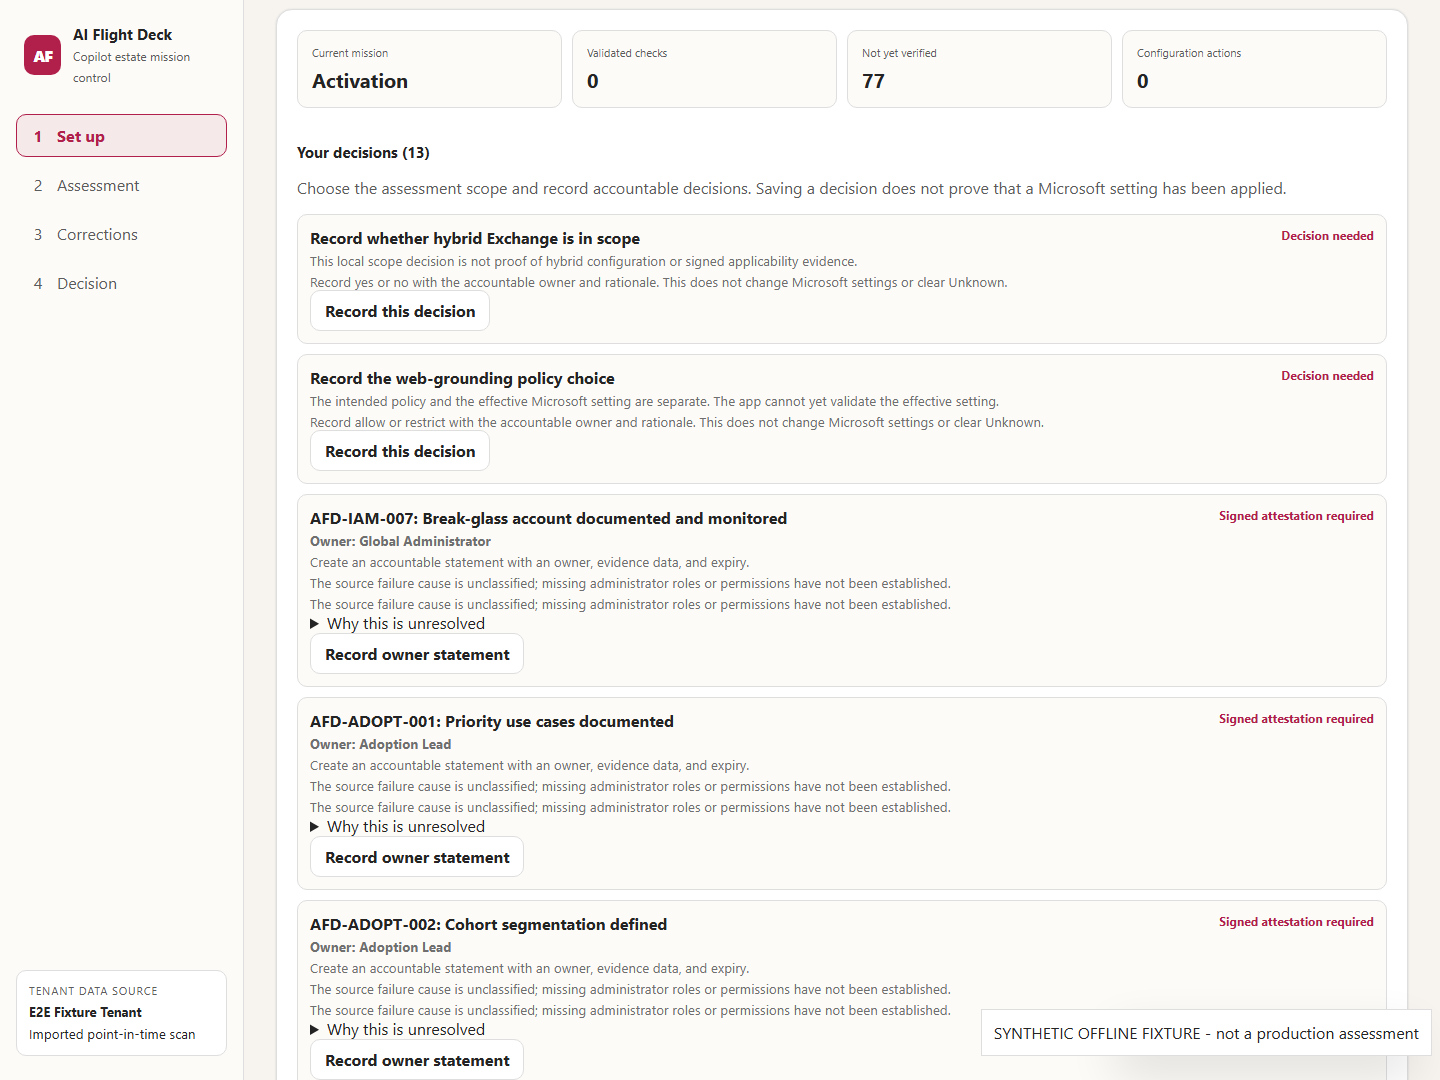
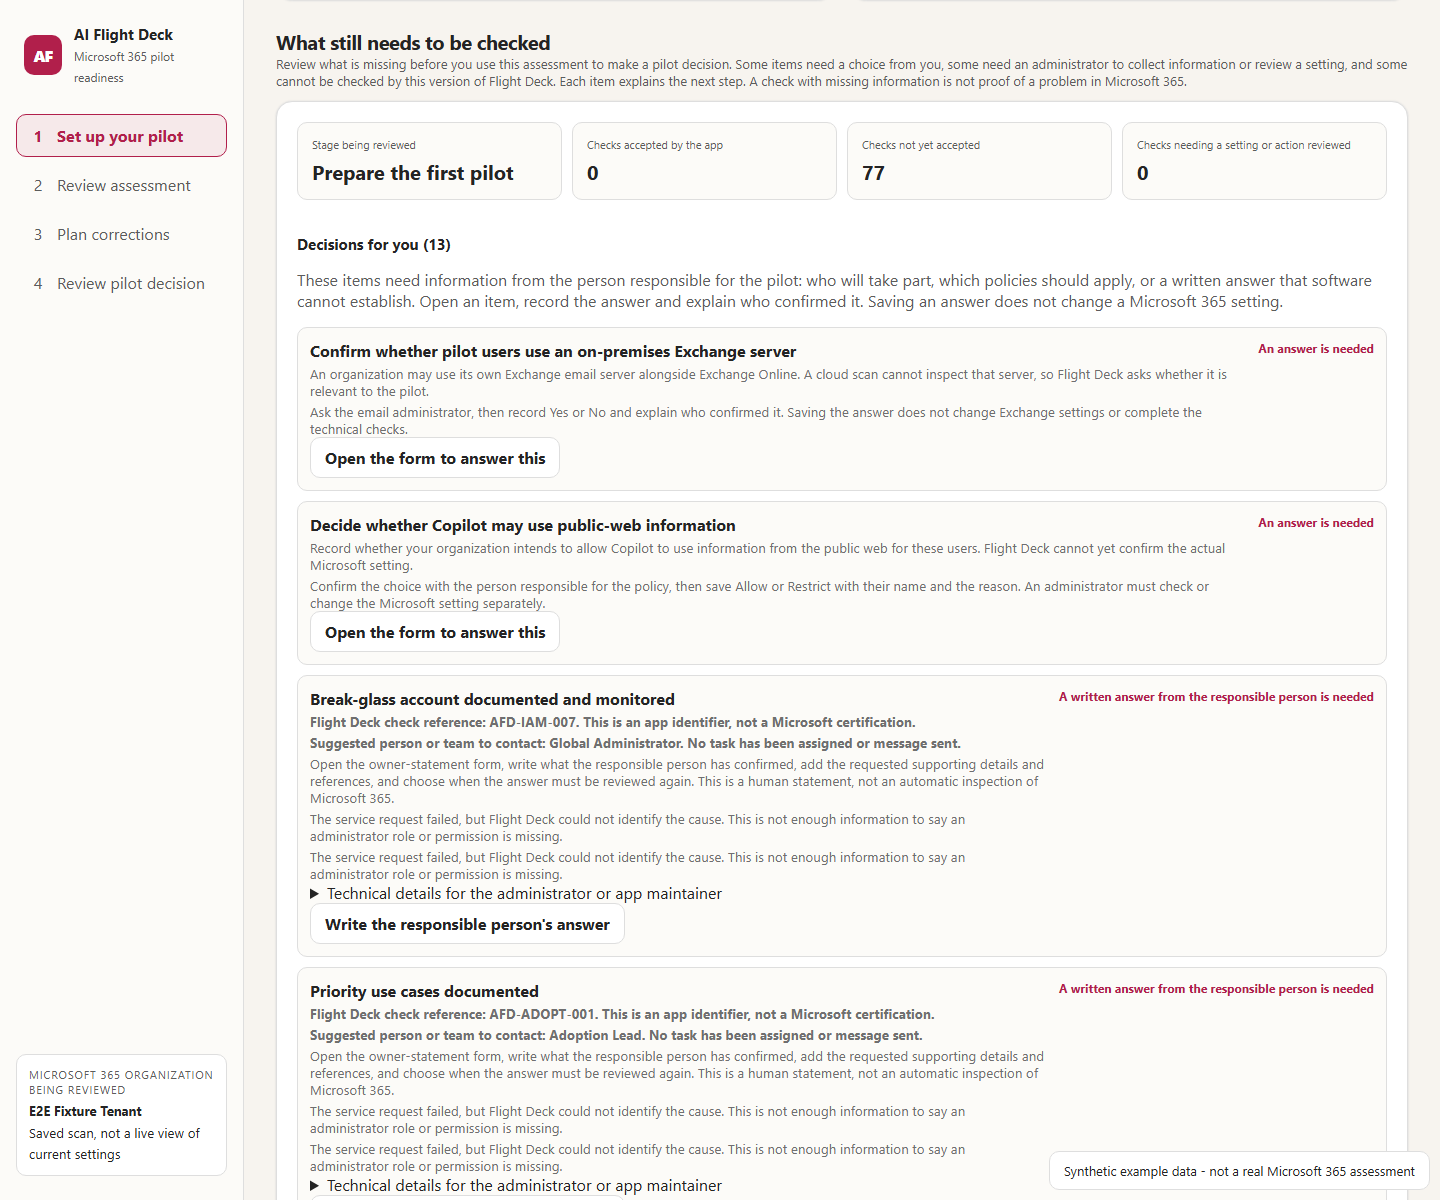
Refresh all visual-tour screenshots for the plain-language interface
Updates README and visual-tour documentation to align with the refreshed 14 synthetic interface screenshots captured on 9 September 2026.

diff --git a/docs/VISUAL-TOUR.md b/docs/VISUAL-TOUR.md
@@ -11,9 +11,11 @@ confirm the result. The other 63 checks do not yet have the software rules neede
 to confirm their results. They can still show useful information and instructions.
 Their presence on a page does not mean they have been completed.
 
-The screenshots use synthetic examples, not a real tenant. Screenshots from
-earlier versions may have shorter labels than the current interface; the
-instructions below describe the current behavior.
+All 14 screenshots were refreshed on **9 September 2026** to show the
+plain-language interface and the revised Setup order. Every image is labelled
+as a synthetic example, not a real Microsoft 365 assessment. The examples
+include incomplete collections and checks the app cannot yet confirm; they
+are not demonstrations of a fully approved rollout.
 
 [Return to the README](../README.md)
 
@@ -54,7 +56,7 @@ Read the scan limits before starting. A scan reads only the information the
 signed-in account can access and stops at documented collection limits.
 One failed service does not mean every service failed. Check each service's result.
 
-[![Choose the assessment evidence path](screenshots/01-setup-overview.png)](screenshots/01-setup-overview.png)
+[![Connect Microsoft 365 and start the first scan](screenshots/01-setup-overview.png)](screenshots/01-setup-overview.png)
 
 ### Choose the people and settings for your pilot
 
@@ -78,7 +80,7 @@ Saving these forms changes only the local Flight Deck records. It does not
 assign licences, grant access, change the public-web setting, inspect an
 on-premises server or send an approval request to the named owner.
 
-[![Record scoped pilot and policy decisions](screenshots/14-setup-decisions.png)](screenshots/14-setup-decisions.png)
+[![Choose pilot participants and record whether Copilot may use public-web information](screenshots/14-setup-decisions.png)](screenshots/14-setup-decisions.png)
 
 ### Work through what still needs to be checked
 
@@ -97,7 +99,7 @@ to continue. Each item identifies the check, explains the next step and links to
 the relevant form or instructions. A suggested contact is not an assigned task.
 Technical errors are available separately for administrators and app maintainers.
 
-[![Prioritize missing evidence](screenshots/02-setup-evidence-center.png)](screenshots/02-setup-evidence-center.png)
+[![Read what still needs to be checked and the next step for each item](screenshots/02-setup-evidence-center.png)](screenshots/02-setup-evidence-center.png)
 
 ### Collect workload evidence
 
@@ -132,7 +134,7 @@ Saved imports are checked for their organization, format, collection date and
 whether they belong to the current collection. Rejected files cannot change a
 readiness result simply by containing a "Pass" label.
 
-[![Collect administrator and Power Platform evidence](screenshots/03-setup-workload-evidence.png)](screenshots/03-setup-workload-evidence.png)
+[![Read separate collection results and errors for each Microsoft service](screenshots/03-setup-workload-evidence.png)](screenshots/03-setup-workload-evidence.png)
 
 ### Record a written answer from the responsible person
 
@@ -150,7 +152,7 @@ or the signer's approval authority. Save it and run another scan to evaluate it.
 Only supported conditional checks can accept a justified "not applicable" answer;
 this is not a way to skip any inconvenient check.
 
-[![Create accountable attestations](screenshots/04-setup-attestation.png)](screenshots/04-setup-attestation.png)
+[![Write the responsible person's answer and add supporting information](screenshots/04-setup-attestation.png)](screenshots/04-setup-attestation.png)
 
 ### Understand what happens after collection
 
@@ -163,7 +165,7 @@ A predicted improvement is not a measured result. The tool can confirm a check
 only when it has current information and the implemented rules for that check.
 The complete real-tenant pilot-to-rollout process has not yet been demonstrated.
 
-[![Follow the operating workflow](screenshots/05-setup-operating-workflow.png)](screenshots/05-setup-operating-workflow.png)
+[![Follow the steps from the first scan to an administrator review and later comparison](screenshots/05-setup-operating-workflow.png)](screenshots/05-setup-operating-workflow.png)
 
 ## 2. Read the assessment
 
@@ -179,7 +181,7 @@ or resources covered and the explanation of missing information. Follow its
 next-step instructions, rather than interpreting a grey or unknown result as a
 misconfigured setting. New written answers are evaluated during the next scan.
 
-[![Review the readiness control plane](screenshots/06-assessment-control-plane.png)](screenshots/06-assessment-control-plane.png)
+[![Select a Microsoft 365 service area and read its readiness checks](screenshots/06-assessment-control-plane.png)](screenshots/06-assessment-control-plane.png)
 
 ### Review SharePoint access and sharing evidence
 
@@ -211,7 +213,10 @@ If there is no usable sharing information, the app can instead explain how a
 missing readiness check prevents a rollout-stage decision. This explanation is
 not a test of someone's actual file access.
 
-[![Review the fixture's available evidence scenarios](screenshots/07-assessment-sharing-review.png)](screenshots/07-assessment-sharing-review.png)
+The example below contains no broad sharing result. It shows how the app
+reports that absence without declaring that the whole organization is safe.
+
+[![Review the message when the sample has no broad sharing result](screenshots/07-assessment-sharing-review.png)](screenshots/07-assessment-sharing-review.png)
 
 ### Open a finding to understand the recommended review
 
@@ -228,7 +233,7 @@ the entire organization safe. If sharing details are unavailable, an explanation
 of missing readiness information may appear instead; do not read that as an
 actual file-permission test.
 
-[![Inspect the fixture's evidence-to-decision trace](screenshots/08-assessment-sharing-result.png)](screenshots/08-assessment-sharing-result.png)
+[![Read the explanation and limitations of an empty sharing result](screenshots/08-assessment-sharing-result.png)](screenshots/08-assessment-sharing-result.png)
 
 ### Review grouped access evidence
 
@@ -249,7 +254,7 @@ every row. These are sampled observations, not a complete tenant inventory.
 The full bounded artifact still loads locally; UI pagination is not a
 million-file backend.
 
-[![Review evidence-backed findings](screenshots/09-assessment-findings.png)](screenshots/09-assessment-findings.png)
+[![Review grouped permissions without mistaking permission records for file counts](screenshots/09-assessment-findings.png)](screenshots/09-assessment-findings.png)
 
 ## 3. Prepare corrections
 
@@ -265,7 +270,7 @@ the tool can collect. Missing information belongs in **What still needs to be
 checked** on Set up; this page concerns proposed changes, not software features
 missing from Flight Deck.
 
-[![Prepare technical corrections](screenshots/10-corrections.png)](screenshots/10-corrections.png)
+[![Select proposed actions for administrator review without changing Microsoft 365](screenshots/10-corrections.png)](screenshots/10-corrections.png)
 
 ## 4. Make the rollout decision
 
@@ -282,7 +287,7 @@ The result is not Microsoft certification or permission to start a production
 rollout. The program owner must make the actual decision using appropriate
 organizational reviews and information beyond this prototype.
 
-[![Review the rollout decision](screenshots/11-decision-summary.png)](screenshots/11-decision-summary.png)
+[![Read why the app cannot yet recommend proceeding with the pilot](screenshots/11-decision-summary.png)](screenshots/11-decision-summary.png)
 
 ### Read the detailed instructions for each check
 
@@ -298,7 +303,7 @@ universal list of Microsoft prerequisites. Download the plan as Markdown to
 share through your usual review process. Downloading it does not send it to
 anyone or establish that a reviewer approved it.
 
-[![Follow the tenant enablement plan](screenshots/12-decision-enablement-plan.png)](screenshots/12-decision-enablement-plan.png)
+[![Open a readiness check to read its administrator instructions](screenshots/12-decision-enablement-plan.png)](screenshots/12-decision-enablement-plan.png)
 
 ### Compare the earlier and later scans
 
@@ -313,7 +318,7 @@ check when the app reevaluates it. Later scans can also show changed results.
 Flight Deck does not continuously watch Microsoft 365, automatically rescan,
 send reminders or prove that every requirement has been resolved.
 
-[![Verify the decision evidence trail](screenshots/13-decision-evidence-trail.png)](screenshots/13-decision-evidence-trail.png)
+[![Find the scan-comparison controls and the records saved for the decision](screenshots/13-decision-evidence-trail.png)](screenshots/13-decision-evidence-trail.png)
 
 ## How the stages connect
 

diff --git a/README.md b/README.md
@@ -428,9 +428,10 @@ and error explanations, use the [connection guide](docs/COLLECTOR-GUIDE.md).
 
 [![AI Flight Deck: what still needs to be checked](docs/screenshots/02-setup-evidence-center.png)](docs/VISUAL-TOUR.md)
 
-The screenshots use an isolated, explicitly labelled synthetic offline fixture
-data. They do not contain tenant data and are intended to show the product
-experience before a live scan is connected.
+All 14 tour screenshots were refreshed on **9 September 2026** for the
+plain-language interface and revised Setup order. They use explicitly labelled
+synthetic examples, not real tenant data, so you can see the product before
+connecting your organization.
 
 ## Install AI Flight Deck on a Windows computer
 
